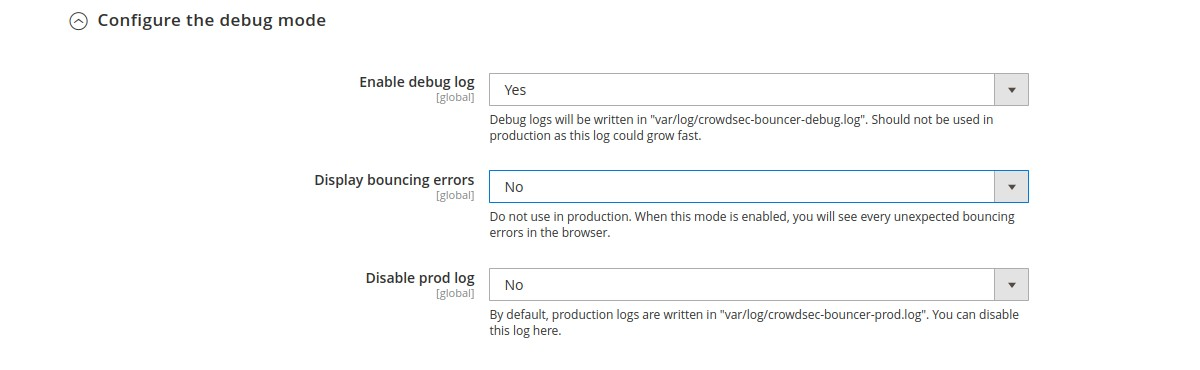
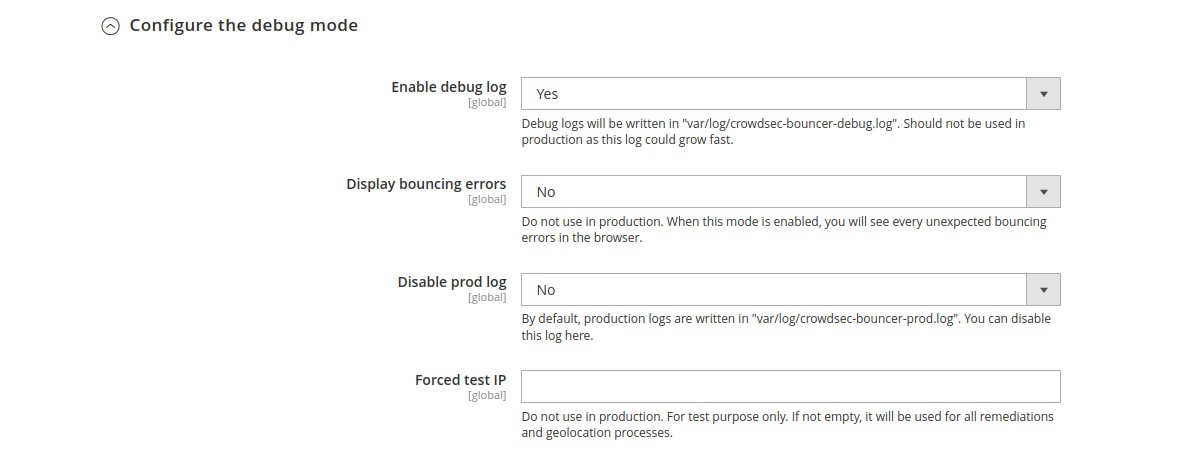
docs(geolocation): Update docs for geolocation feature

Changed region(s): [[0.2467, 0.1486, 0.8942, 0.9811], [0.0617, 0.0297, 0.3083, 0.0892]]

diff --git a/doc/USER_GUIDE.md b/doc/USER_GUIDE.md
@@ -130,11 +130,11 @@ mode makes it possible to never ban an IP but only to offer a Captcha, in the wo
  In the `Theme customizations` part, you can modify texts and colors of ban and captcha walls. All fields here are 
  store view scoped, so you can use different languages and designs.
 
-![Captcha customization](images/screenshots/config-captcha-wall.jpg)
+![Captcha wall customization](images/screenshots/config-captcha-wall.jpg)
 
-![Captcha customization](images/screenshots/config-ban-wall.jpg)
+![Ban wall customization](images/screenshots/config-ban-wall.jpg)
 
-![Captcha customization](images/screenshots/config-css.jpg)
+![Wall CSS](images/screenshots/config-css.jpg)
 
 
 
@@ -144,7 +144,7 @@ mode makes it possible to never ban an IP but only to offer a Captcha, in the wo
   In the `Advanced settings` part, you can enable/disable the stream mode, choose your cache system for your CrowdSec 
   LAPI, handle your remediation policy and adjust some debug and log parameters.
 
-![Captcha customization](images/screenshots/config-communication-mode.jpg)
+![Communication mode](images/screenshots/config-communication-mode.jpg)
 
 ***
 
@@ -170,7 +170,7 @@ cache refresh.
 ***
 
 
-![Captcha customization](images/screenshots/config-cache.jpg)
+![Cache](images/screenshots/config-cache.jpg)
 
 ***
 
@@ -222,7 +222,44 @@ Minimum 1 second.  Note that this setting can not be apply in stream mode.
 
 ***
 
-![Captcha customization](images/screenshots/config-remediations.jpg)
+
+![Geolocation](images/screenshots/config-geolocation.jpg)
+
+***
+
+`Geolocation → Enable geolocation feature` (`global` scope)
+
+Enable if you want to handle CrowdSec country scoped decisions.
+
+***
+
+`Geolocation → Save geolocation country result in session` (`global` scope)
+
+Enabling this option will avoid multiple call to the geolocation system (e.g. MaxMind database).
+
+***
+
+`Geolocation → Geolocation type` (`global` scope)
+
+At this time, only MaxMind type is allowed.
+
+***
+
+`Geolocation → MaxMind database type` (`global` scope)
+
+Choose between `Country` and `City` depending on your MaxMind database.
+
+***
+
+`Geolocation → MaxMind database path` (`global` scope)
+
+Relative path to the `var` folder of your Magento 2 instance.
+
+***
+
+
+
+![Remediations](images/screenshots/config-remediations.jpg)
 
 
 ***
@@ -245,7 +282,7 @@ If you use a CDN, a reverse proxy or a load balancer, it is possible to indicate
 Enable if you want to hide CrowdSec mentions on the Ban and Captcha walls.
 ***
 
-![Captcha customization](images/screenshots/config-debug.jpg)
+![Debug](images/screenshots/config-debug.jpg)
 
 ***
 
@@ -267,13 +304,19 @@ The prod log is lighter than the debug log. But you can disable it here.
 
 ***
 
+`Configure the debug mode → Forced test IP` (`global` scope)
+
+For test purpose only. If not empty, this IP will be used for all remediations and geolocation processes.
+
+***
+
 #### Events
 
 
 In the `Events` part, you can enable business events logging. Using it in combination to a specific CrowdSec 
 scenario allows detecting suspicious behavior as credential or credit card stuffing.
 
-![Captcha customization](images/screenshots/config-event.jpg)
+![Events](images/screenshots/config-event.jpg)
 
 ***
 
